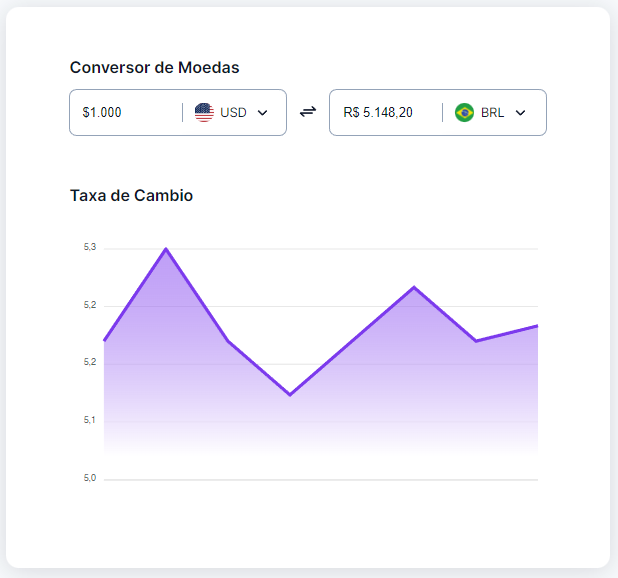
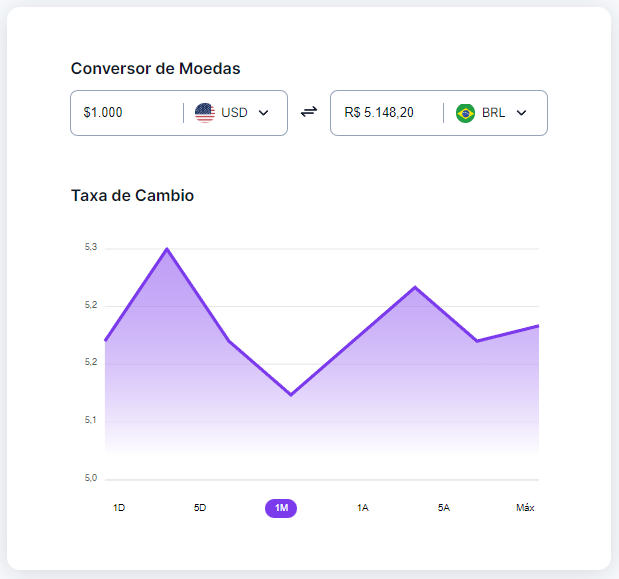
add buttons and responsive mobile

diff --git a/style.css b/style.css
@@ -150,6 +150,9 @@ ul {
   margin-top: .8rem;
 
   overflow-y: scroll;
+
+  position: relative;
+  z-index: 1;
 }
 
 li {
@@ -167,4 +170,58 @@ li {
 .cambio .wrapper {
   margin-top: 2.4rem;
   
+}
+
+.tooltip {
+  background-color: white;
+  box-shadow: 0 .4rem 1.6rem rgba(15, 23, 42, .15);
+  border-radius: .4rem;
+  padding: .8rem;
+}
+
+.chart-controls {
+  display: flex;
+  justify-content: space-between;
+  margin: -2.2rem .8rem 0 4rem;
+}
+
+.chart-controls button{
+  background-color: transparent;
+  border: 0;
+
+  width: 4rem;
+  height: 2.4rem;
+
+  font-size: 1.2rem;
+  line-height: 1.6rem;
+  text-align: center;
+
+  cursor: pointer;
+}
+
+.chart-controls button:hover, .chart-controls button.active{
+  background-color: #7c3aed;
+  color: white;
+  border-radius: 999px;
+  padding: .4rem .8rem;
+}
+
+@media (max-width: 48rem) {
+  main{
+    padding: 1.6rem;
+    gap: 3.2rem;
+  }
+
+  section h2{
+    font-size: 1.6rem;
+  }
+
+  .conversor .wrapper{
+    flex-direction: column;
+    gap: .8rem;
+  }
+
+  .money-wrapper{
+    width: 100%;
+  }
 }

diff --git a/index.html b/index.html
@@ -91,6 +91,14 @@
       <h2>Taxa de Cambio</h2>
       <div class="wrapper">
         <div id="chart"></div>
+        <div class="chart-controls">
+          <button>1D</button>
+          <button>5D</button>
+          <button class="active">1M</button>
+          <button>1A</button>
+          <button>5A</button>
+          <button>Máx</button>
+        </div>
       </div>
     </section>
 

diff --git a/README.md b/README.md
@@ -5,8 +5,14 @@
   <a href="#-projeto">Projeto</a>&nbsp;&nbsp;&nbsp;&nbsp;&nbsp;
 </p>
 
+<h3>Desktop</h3>
 <p align="center">
   <img alt="Page" src=".github/Screenshot.png" width="50%">
+</p>
+
+<h3>Mobile</h3>
+<p align="center">
+  <img alt="Page" src=".github/Screenshot-mobile.png" width="50%">
 </p>
 
 ## 🚀 Tecnologias
